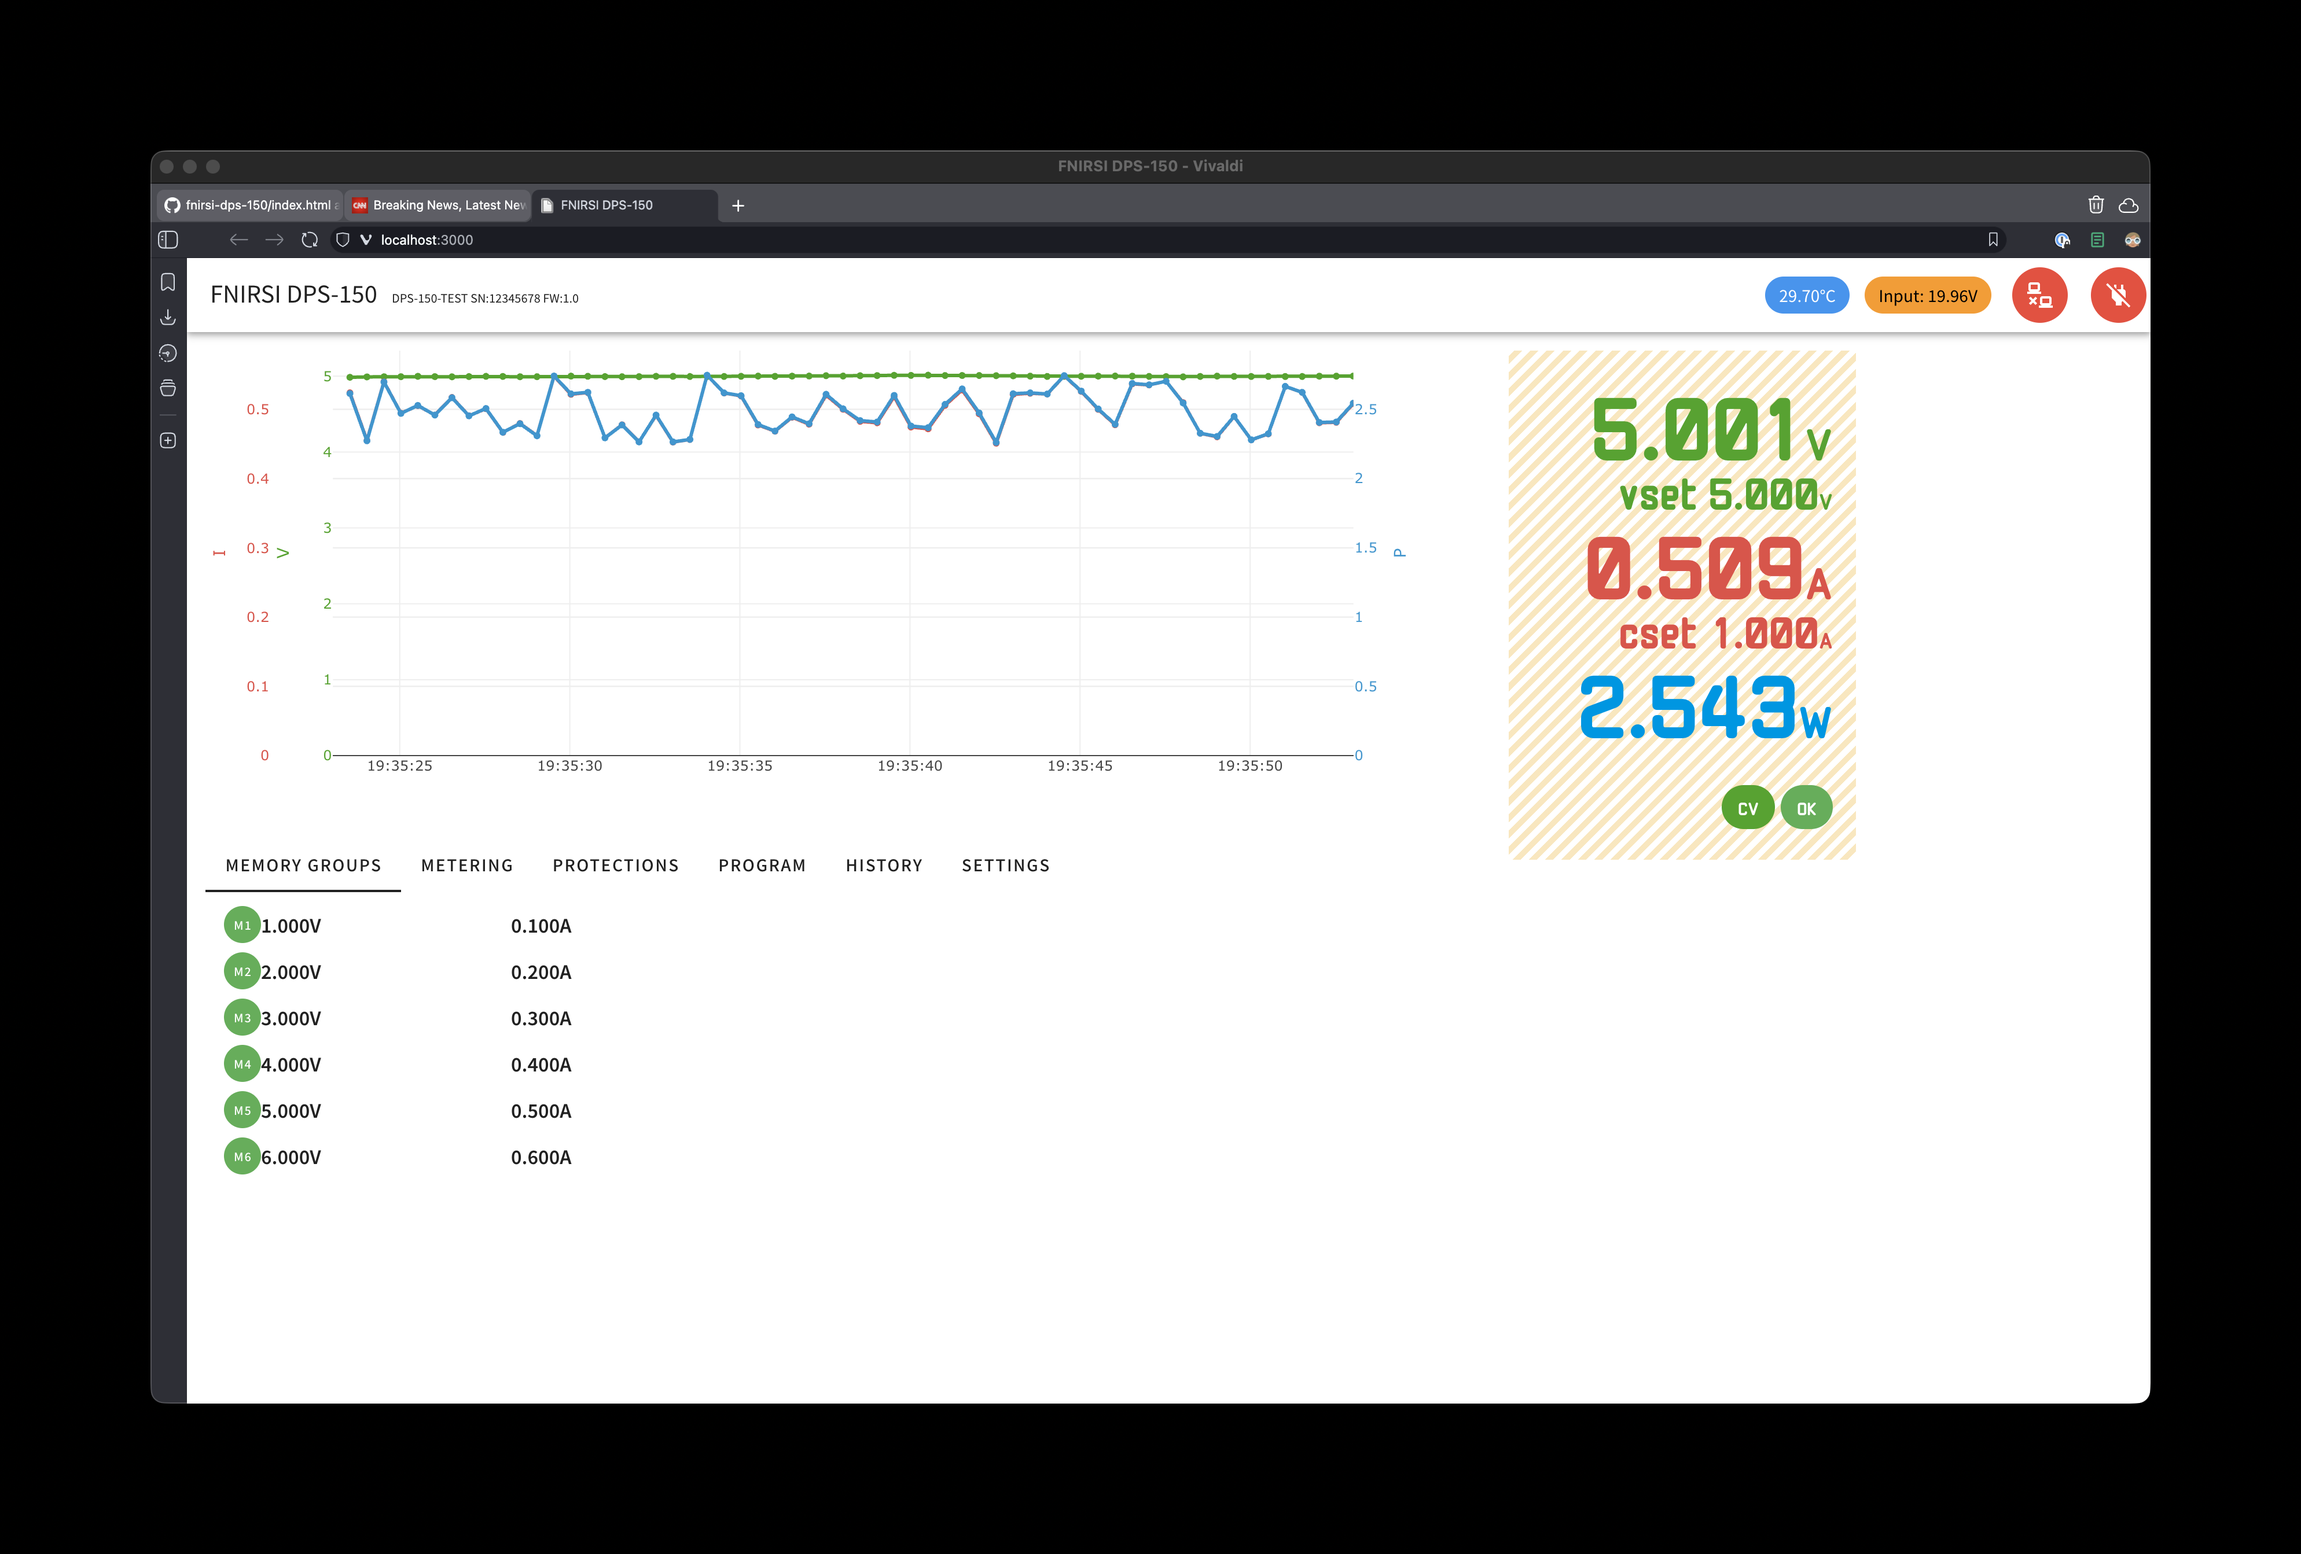
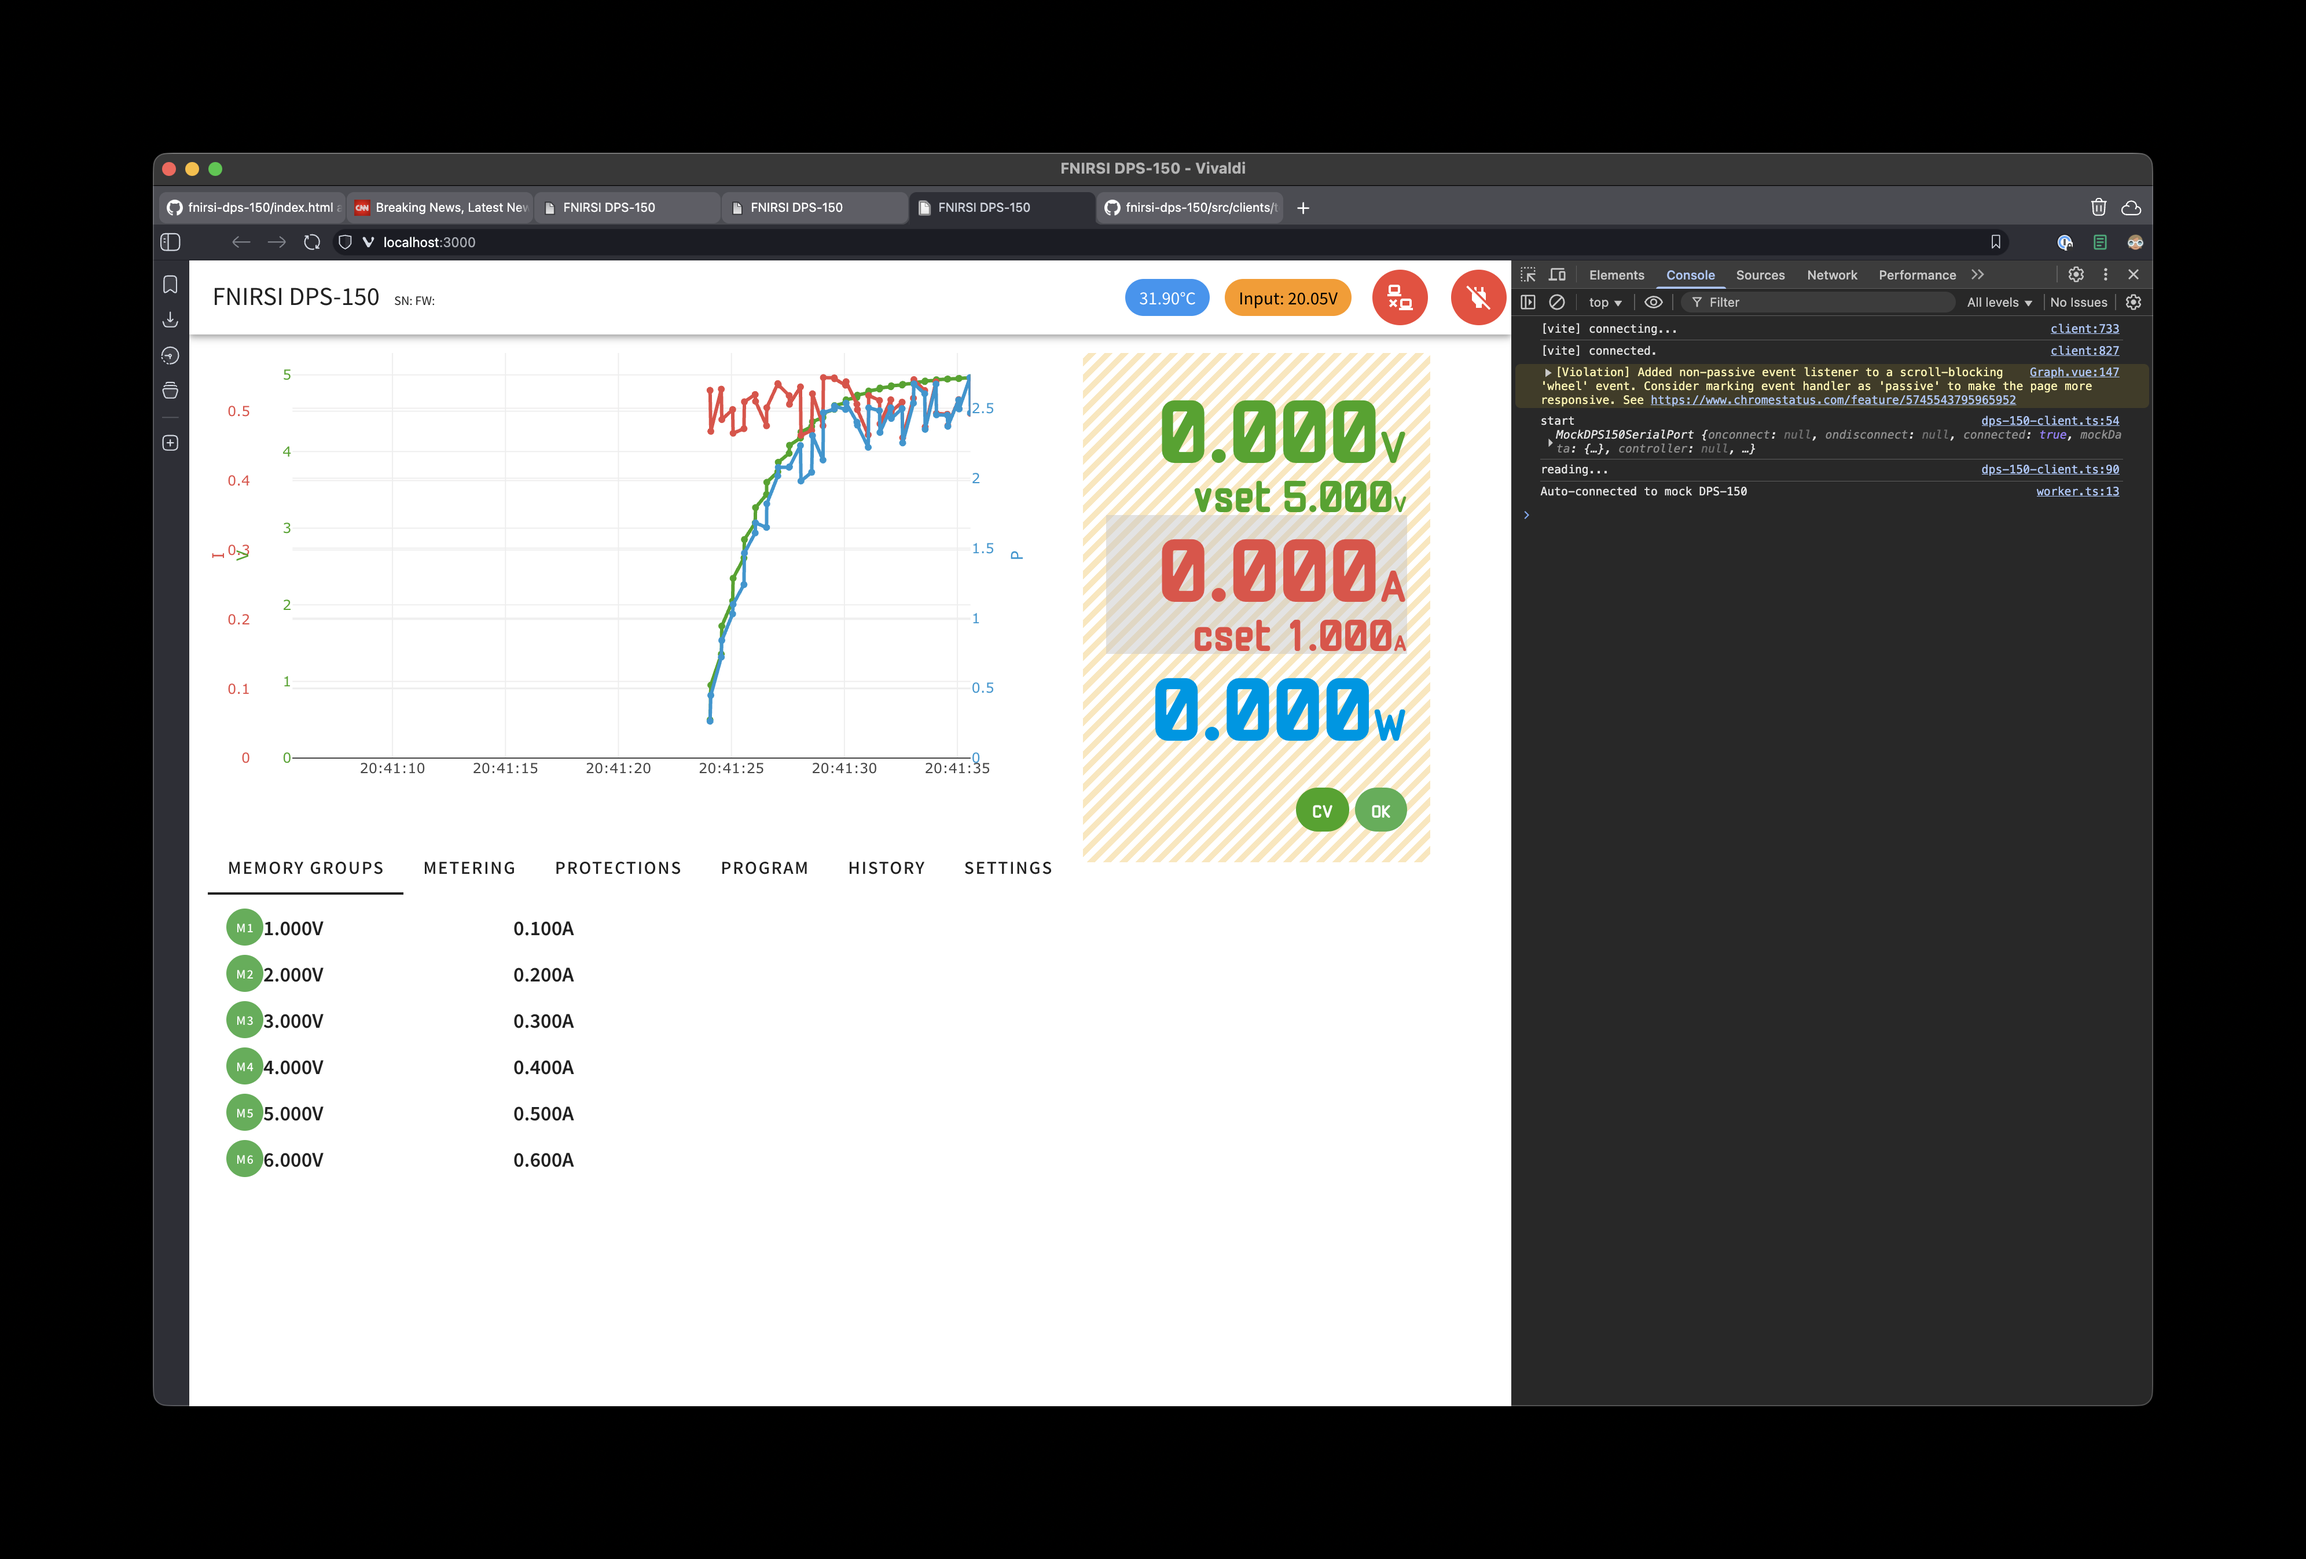
fix: better mock serial port

Changed region(s): [[0.0624, 0.0927, 0.9356, 0.927], [0.0936, 0.5562, 0.1559, 0.7725], [0.2183, 0.5871, 0.2495, 0.7725]]

diff --git a/src/serial-ports/mock-serial-port.ts b/src/serial-ports/mock-serial-port.ts
@@ -14,8 +14,8 @@ export class MockDPS150SerialPort extends EventTarget implements SerialPort {
     setVoltage: 5.0,
     setCurrent: 1.0,
     outputEnabled: true,  // Enable output by default in test mode
-    outputVoltage: 0.0,
-    outputCurrent: 0.0,
+    outputVoltage: 4.5,   // Start close to target for quicker convergence
+    outputCurrent: 0.5,   // Start with realistic current
     inputVoltage: 20.0,
     temperature: 30.0,
     // Memory group presets (like original test client)
@@ -92,7 +92,7 @@ export class MockDPS150SerialPort extends EventTarget implements SerialPort {
       // Gradually approach set voltage with some noise
       const voltageDiff = this.mockData.setVoltage - this.mockData.outputVoltage;
       this.mockData.outputVoltage += voltageDiff * 0.1 + (Math.random() - 0.5) * 0.01;
-      
+
       // Simulate current with realistic variation (around 0.5A as in original test)
       this.mockData.outputCurrent = 0.5 + (Math.random() - 0.5) * 0.1;
     } else {
@@ -102,7 +102,7 @@ export class MockDPS150SerialPort extends EventTarget implements SerialPort {
 
     // Input voltage variations (USB-PD ~20V with small variations)
     this.mockData.inputVoltage = 20.0 + (Math.random() - 0.5) * 0.2;
-    
+
     // Temperature variations (30°C ± 2°C, rounded to 1 decimal)
     this.mockData.temperature = Math.round((30 + (Math.random() - 0.5) * 4) * 10) / 10;
 

diff --git a/src/components/OutputView.vue b/src/components/OutputView.vue
@@ -42,19 +42,19 @@ function formatProtectionState(state: string) {
 <template>
   <div v-if="device" class="main-view" :class="{ enabled: device.outputEnabled && isConnected }" style="width: 300px">
     <div class="changeable voltage" @click="emit('change-voltage')">
-      <span>{{ formatNumber(device.voltage || 0) }}</span><span class="unit">V</span>
+      <span>{{ formatNumber(device.outputVoltage || 0) }}</span><span class="unit">V</span>
       <div class="set">
         vset <span>{{ formatNumber(device.setVoltage || 0) }}</span><span class="unit">V</span>
       </div>
     </div>
     <div class="changeable current" @click="emit('change-current')">
-      <span>{{ formatNumber(device.current || 0) }}</span><span class="unit">A</span>
+      <span>{{ formatNumber(device.outputCurrent || 0) }}</span><span class="unit">A</span>
       <div class="set">
         cset <span>{{ formatNumber(device.setCurrent || 0) }}</span><span class="unit">A</span>
       </div>
     </div>
     <div class="power">
-      <span>{{ formatNumber(device.power || 0) }}</span><span class="unit">W</span>
+      <span>{{ formatNumber(device.outputPower || 0) }}</span><span class="unit">W</span>
     </div>
     <v-chip :class="{ current: device.cv_cc === 'CC', voltage: device.cv_cc === 'CV' }" variant="flat" size="large">
       {{ device.cv_cc || 'CV' }}

diff --git a/src/store/device.ts b/src/store/device.ts
@@ -76,6 +76,10 @@ export const useDeviceStore = defineStore('device', {
       this.port = {} as SerialPort; // Mock port reference
       const deviceInfo = await backend.getDeviceInfo();
       Object.assign(this.device, deviceInfo);
+
+      // Ensure output is enabled to match the mock data
+      await backend.enable();
+
       return true;
     },
 

diff --git a/src/App.vue b/src/App.vue
@@ -177,7 +177,7 @@ onMounted(async () => {
   });
   program.value = programExamples[0].code;
   updateGraph();
-  
+
   // Auto-connect in test mode
   if (import.meta.env.VITE_USE_TEST_CLIENT === 'true') {
     await autoConnect()
